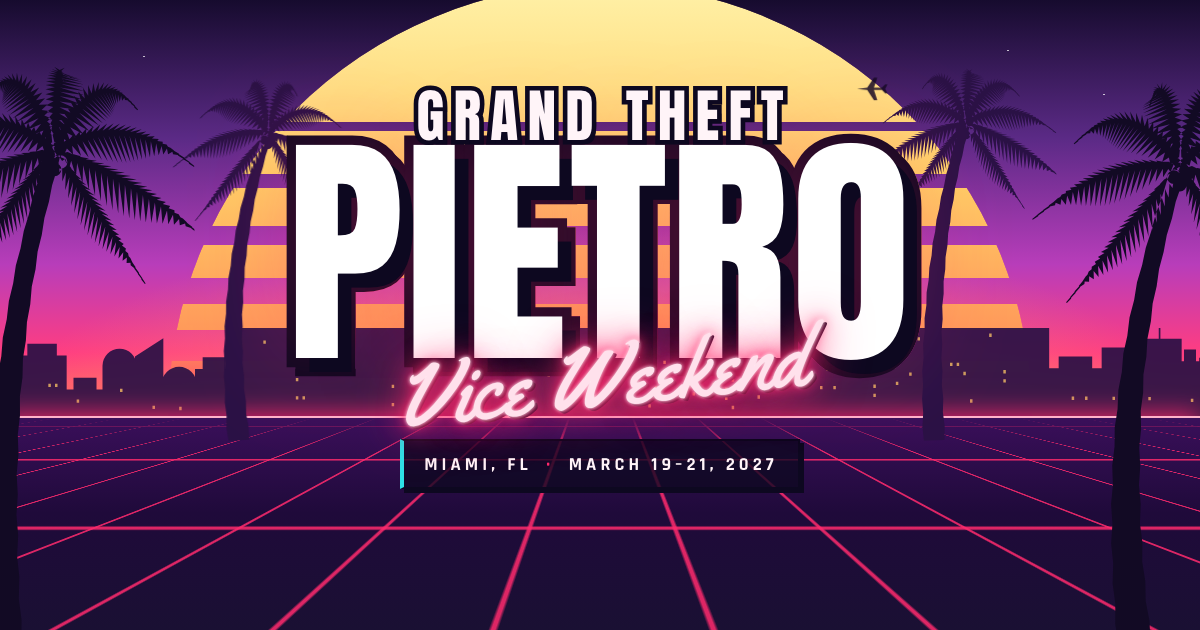
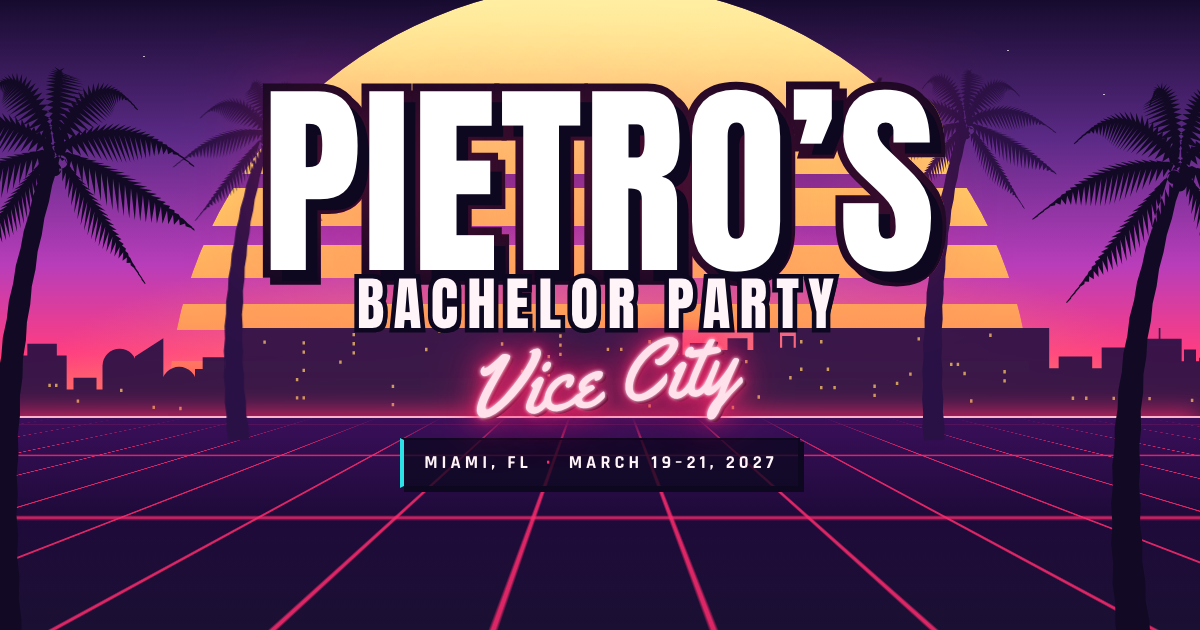
Retitle to Pietro's Bachelor Party · Vice City; regenerate OG image

diff --git a/index.html b/index.html
@@ -3,10 +3,10 @@
 <head>
   <meta charset="UTF-8" />
   <meta name="viewport" content="width=device-width, initial-scale=1.0" />
-  <title>Grand Theft Pietro — Miami, March 19–21, 2027</title>
+  <title>Pietro’s Bachelor Party — Miami, March 19–21, 2027</title>
   <meta name="description" content="Pietro's bachelor party. Miami, March 19–21, 2027. What happens in Vice, stays in Vice." />
   <meta name="theme-color" content="#1a1033" />
-  <meta property="og:title" content="Grand Theft Pietro — Vice Weekend" />
+  <meta property="og:title" content="Pietro’s Bachelor Party — Vice City, March 19–21, 2027" />
   <meta property="og:description" content="Pietro's bachelor party · Miami · March 19–21, 2027" />
   <meta property="og:image" content="images/og-image.png" />
   <meta property="og:type" content="website" />
@@ -29,7 +29,7 @@
   <!-- NAV (WS0) -->
   <nav class="nav" id="nav" aria-label="Main">
     <div class="nav__inner">
-      <a class="nav__logo" href="#hero">GTP<span class="nav__logo-dot">·</span>2027</a>
+      <a class="nav__logo" href="#hero">PB<span class="nav__logo-dot">·</span>2027</a>
       <div class="nav__wanted" id="wanted" aria-hidden="true"></div>
       <ul class="nav__links">
         <li><a class="nav__link" href="#crew">Most Wanted</a></li>
@@ -81,10 +81,10 @@
 
       <div class="hero__content">
         <h1 class="hero__title">
-          <span class="hero__kicker">Grand Theft</span>
-          <span class="hero__name" data-text="Pietro">Pietro</span>
+          <span class="hero__name" data-text="Pietro’s">Pietro’s</span>
+          <span class="hero__kicker hero__kicker--below">Bachelor Party</span>
         </h1>
-        <p class="hero__script">Vice Weekend</p>
+        <p class="hero__script">Vice City</p>
         <p class="hero__meta">Miami, FL <span class="hero__meta-dot" aria-hidden="true">·</span> March 19–21, 2027</p>
       </div>
 

diff --git a/js/intro-hud.js b/js/intro-hud.js
@@ -50,15 +50,15 @@
       class: 'intro',
       role: 'dialog',
       'aria-modal': 'true',
-      'aria-label': 'Loading Grand Theft Pietro. Press any key to skip.',
+      'aria-label': 'Loading Pietro’s Bachelor Party. Press any key to skip.',
       tabindex: '-1',
     },
       el('div', { class: 'intro__sun', 'aria-hidden': 'true' }),
       el('div', { class: 'intro__floor', 'aria-hidden': 'true' }),
       el('div', { class: 'intro__mark' },
-        el('span', { class: 'intro__kicker' }, 'Grand Theft'),
-        el('span', { class: 'intro__name' }, 'Pietro'),
-        el('span', { class: 'intro__script' }, EV.subtitle || 'Vice Weekend')
+        el('span', { class: 'intro__name' }, 'Pietro’s'),
+        el('span', { class: 'intro__kicker intro__kicker--below' }, 'Bachelor Party'),
+        el('span', { class: 'intro__script' }, EV.subtitle || 'Vice City')
       ),
       el('div', { class: 'intro__bottom' },
         tipEl,
@@ -145,7 +145,7 @@
           sr.textContent = '';
           clearInterval(timer);
         } else if (state === 'active') {
-          label.textContent = 'Vice Weekend';
+          label.textContent = 'Vice City';
           value.textContent = 'Mission active';
           sr.textContent = '';
         } else {

diff --git a/logistics.html b/logistics.html
@@ -3,7 +3,7 @@
 <head>
   <meta charset="UTF-8" />
   <meta name="viewport" content="width=device-width, initial-scale=1.0" />
-  <title>Flight Plan — Grand Theft Pietro</title>
+  <title>Flight Plan — Pietro’s Bachelor Party</title>
   <meta name="description" content="Arrivals, departures, rooms and logistics for Pietro's bachelor party in Miami." />
   <meta name="theme-color" content="#1a1033" />
   <link rel="icon" href="images/favicon.svg" type="image/svg+xml" />
@@ -18,7 +18,7 @@
   <!-- NAV (copied from index.html) -->
   <nav class="nav" id="nav" aria-label="Main">
     <div class="nav__inner">
-      <a class="nav__logo" href="index.html">GTP<span class="nav__logo-dot">·</span>2027</a>
+      <a class="nav__logo" href="index.html">PB<span class="nav__logo-dot">·</span>2027</a>
       <ul class="nav__links">
         <li><a class="nav__link" href="index.html#crew">Most Wanted</a></li>
         <li><a class="nav__link" href="index.html#missions">Missions</a></li>

diff --git a/css/hero.css b/css/hero.css
@@ -319,3 +319,11 @@
   .hero__grid, .hero__stars, .hero__cue svg, .hero__plane-light { animation: none; }
   .hero__plane { animation: none; transform: translateX(72vw); }
 }
+
+/* Title: PIETRO'S / BACHELOR PARTY / Vice City */
+.hero__name { font-size: clamp(4.4rem, 21vw, 13rem); }
+.hero__kicker--below { margin: 0.12em 0 0; }
+.hero__script { margin-top: 0.05em; }
+@media (max-height: 560px) and (orientation: landscape) {
+  .hero__name { font-size: clamp(3.6rem, 24vh, 7.5rem); }
+}

diff --git a/js/data.js b/js/data.js
@@ -6,8 +6,8 @@
    ============================================================ */
 window.VICE = {
   event: {
-    title: 'Grand Theft Pietro',
-    subtitle: 'Vice Weekend',
+    title: 'Pietro’s Bachelor Party',
+    subtitle: 'Vice City',
     city: 'Miami, FL',
     start: '2027-03-19T15:00:00-04:00',
     end:   '2027-03-21T23:59:00-04:00',

diff --git a/css/intro-hud.css b/css/intro-hud.css
@@ -250,3 +250,8 @@
   .wanted-star.is-pop,
   .wanted[data-level="5"] .wanted-star { animation: none; }
 }
+
+/* Title: PIETRO'S / BACHELOR PARTY / Vice City */
+.intro__name { font-size: clamp(4rem, 19vw, 11rem); }
+.intro__kicker--below { margin: 0.12em 0 0; }
+.intro__kicker--below + .intro__script { margin-top: 0.2em; }
